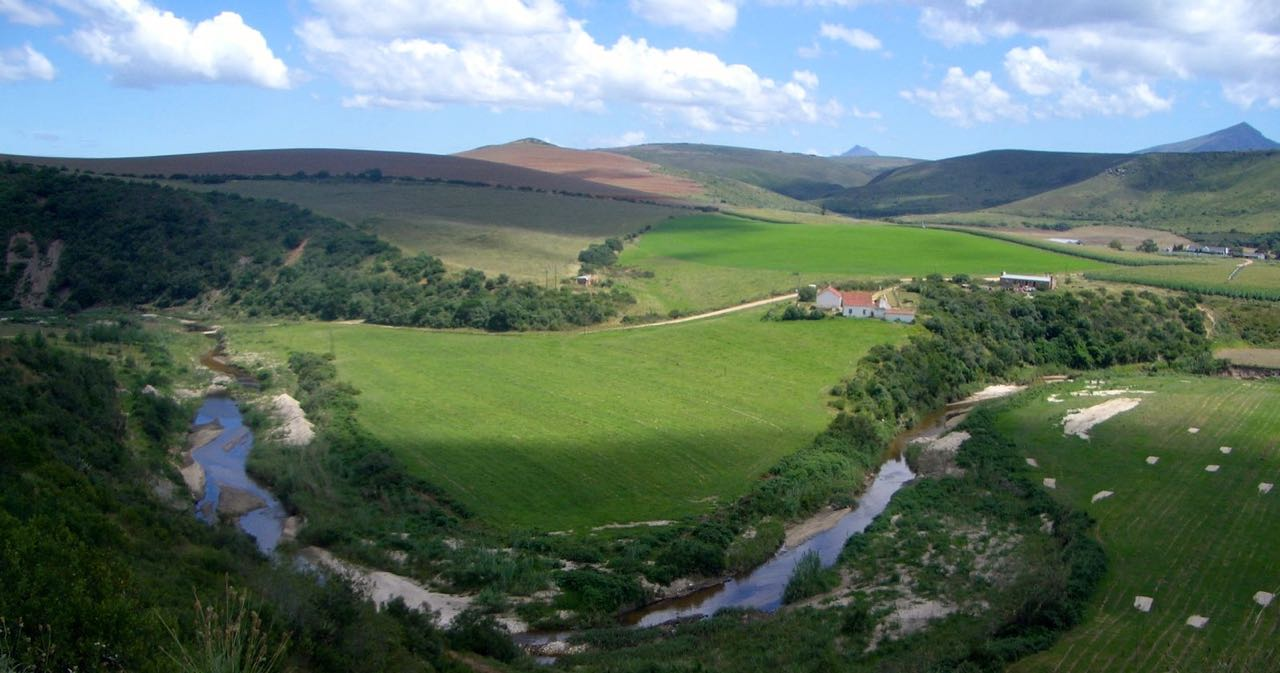
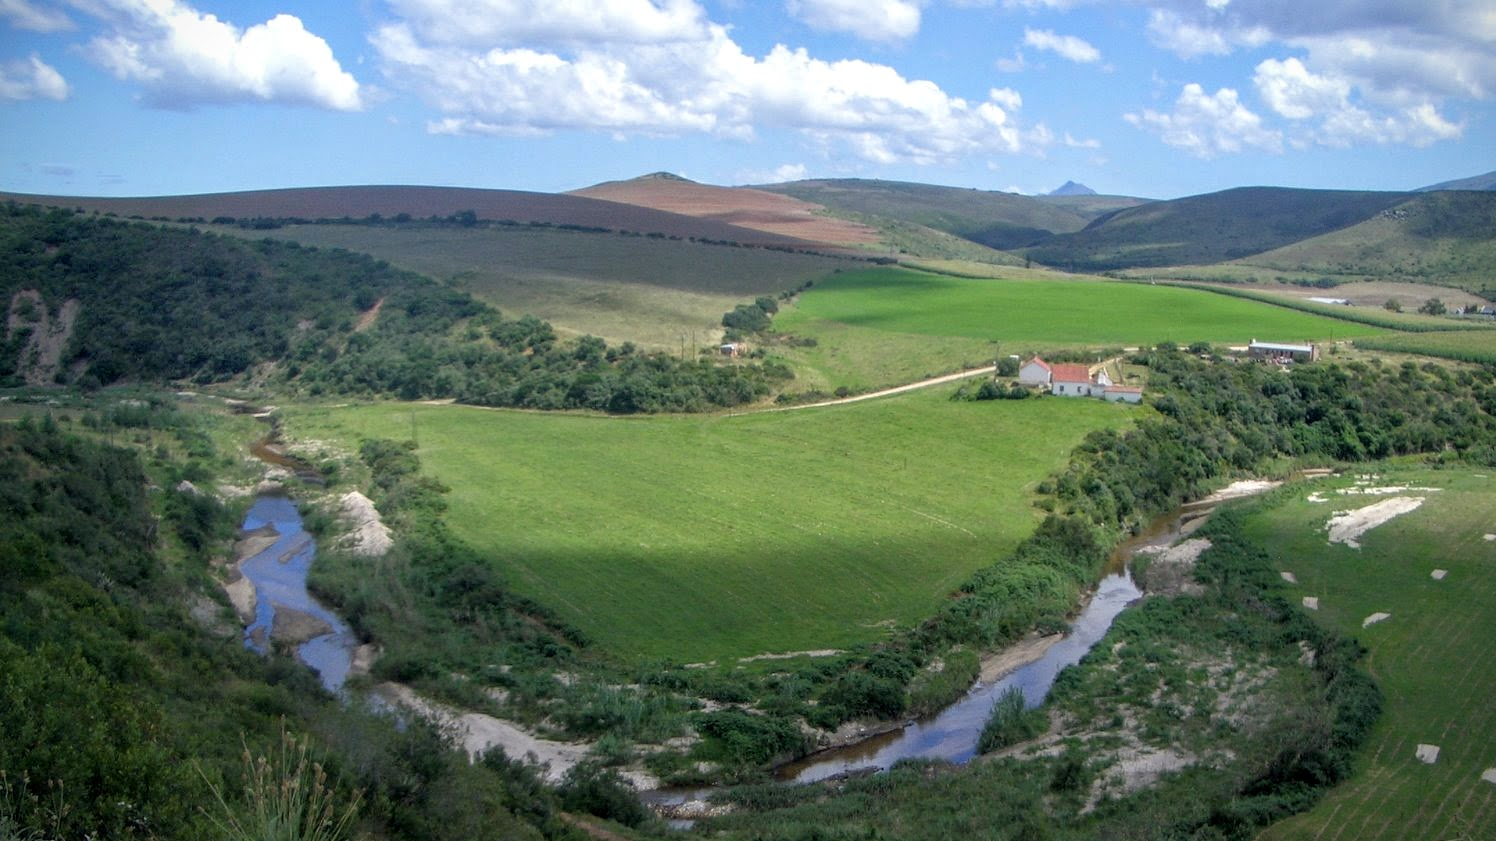
Updated photos for three research projects

diff --git a/research/index.md b/research/index.md
@@ -15,7 +15,6 @@ This project is examining the socio-ecological linkages between fire management 
 
 * Key collaborators: [Naomi Tague](http://www.bren.ucsb.edu/people/Faculty/christina_tague.htm){:target="_blank"}, [Max Moritz](http://ourenvironment.berkeley.edu/people_profiles/max-a-moritz/){:target="_blank"}, [Sarah Anderson](http://fiesta.bren.ucsb.edu/~sanderson/){:target="_blank"}, [Andrew Plantinga](http://www.bren.ucsb.edu/people/Faculty/andrew_plantinga.htm){:target="_blank"}, [Maureen Kennedy](http://faculty.washington.edu/mkenn/){:target="_blank"}
 
-
 <a href="/images/seri_model_linkages.png"><img src="/images/seri_model_linkages.png"></a>
 
 ----------
@@ -27,13 +26,9 @@ Rising temperatures associated with climate change, as well as more frequent dis
 * Key collaborators: [Naomi Tague](http://www.bren.ucsb.edu/people/Faculty/christina_tague.htm){:target="_blank"}, [Max Moritz](http://ourenvironment.berkeley.edu/people_profiles/max-a-moritz/){:target="_blank"}, [Sara Baguskas](http://www.theloiklaboratory.net/postdoral-fellow-sara-baguskas-phd.html){:target="_blank"}
 
 
-<a href="/images/photo_czo_trees_shrubs.jpg"><img src="/images/photo_czo_trees_shrubs.jpg"></a>
+<a href="/images/photo_sequoia_tree_mortality.jpg"><img src="/images/photo_sequoia_tree_mortality.jpg"></a>
 
-[//]: # <figure class="half">
-[//]: #     <a href="/images/photo_czo_trees_shrubs.jpg"><img src="/images/photo_czo_trees_shrubs.jpg"></a>
-[//]: #     <a href="/images/seri_model_linkages.png"><img src="/images/seri_model_linkages.png"></a>
-[//]: # </figure>
-[//]: # (This may be the most platform independent comment)
+<a href="/images/photo_chaparral_rattlesnake.jpg"><img src="/images/photo_chaparral_rattlesnake.jpg"></a>
 
 ----------
 
@@ -45,16 +40,21 @@ Wildfire is a major source of episodic land-cover change in California watershed
 
 * Key collaborator: [Allen Hope](https://geography.sdsu.edu/people/ahope){:target="_blank"}
 
-<a href="/images/photo_sespe_creek.jpg"><img src="/images/photo_sespe_creek.jpg"></a>	
+<figure class="half">
+	<a href="/images/photo_postfire_oak.jpg"><img src="/images/photo_postfire_oak.jpg"></a>
+	<a href="/images/photo_big_sur_river.jpg"><img src="/images/photo_big_sur_river.jpg"></a>
+</figure>
 
 ----------
 
 ### Basin Assessment for Regionalization (BAR) Project
 
-This project combined satellite data (MODIS) with hydrological modeling to explore how land cover in southern California and the Western Cape Region of South Africa affects hydrological flow regimes at regional scales. My contributions included improving the prediction of flow duration curves in ungauged basins, evaluating streamflow response to fire in southern California and invasive vegetation in South Africa, and investigating storage configurations and parameter stability of the IHACRES rainfall-runoff model.
+This project combined satellite data (MODIS) with hydrological modeling to explore how land cover in southern California and the Western Cape Region of South Africa affects hydrological flow regimes at regional scales. My contributions included improving the prediction of flow duration curves in ungauged basins, evaluating streamflow response to wildfire in southern California and invasive vegetation in South Africa, and investigating storage configurations and parameter stability of the IHACRES rainfall-runoff model.
 
 * Key collaborators: [Allen Hope](https://geography.sdsu.edu/people/ahope){:target="_blank"}, [Doug Stow](https://geography.sdsu.edu/people/dstow){:target="_blank"}
 
-<a href="/images/photo_south_africa_stream.jpg"><img src="/images/photo_south_africa_stream.jpg"></a>
-
+<figure class="half">
+	<a href="/images/photo_south_africa_stream.jpg"><img src="/images/photo_south_africa_stream.jpg"></a>
+	<a href="/images/photo_south_africa_fynbos.jpg"><img src="/images/photo_south_africa_fynbos.jpg"></a>
+</figure>
 
